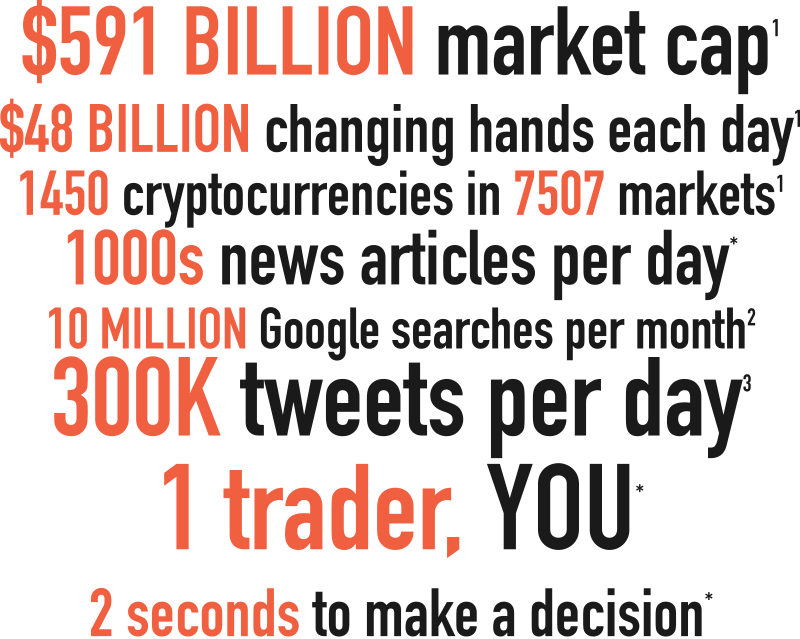
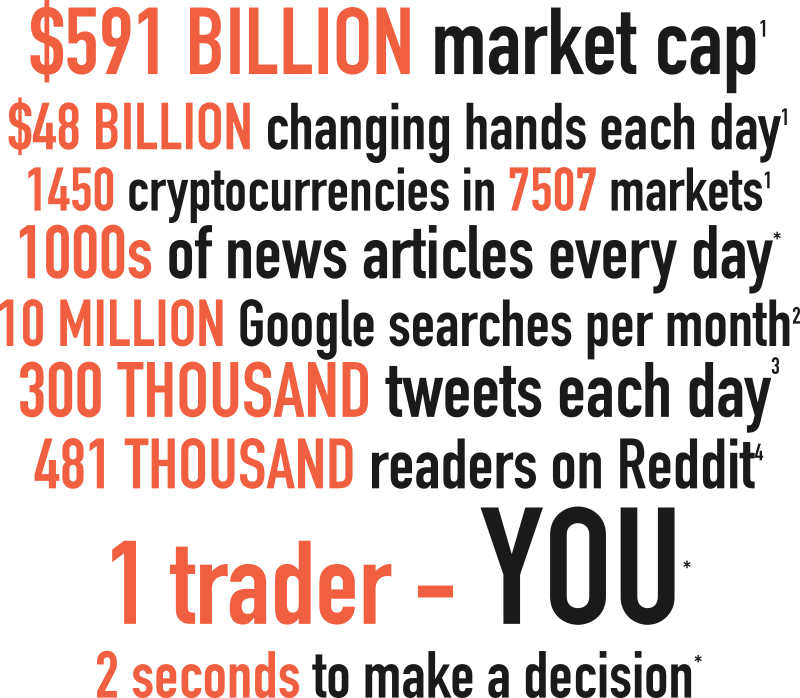
update info graphic

diff --git a/index.html b/index.html
@@ -123,7 +123,7 @@
                     <div class="col-lg-6 col-md-6 mx-auto text-center">
                         <img class="img-fluid" src="img/cryptocurrency-market.png" alt="cryptocurrency market at a glance">
                         <br /><br />
-                        <p class="mb-4"><small>Data estimated on 16/01/2018: (1) coinmarketcap.com<br />(2) Google keyword planner (3) cointrendz.com (*) own estimate
+                        <p class="mb-4"><small>Data estimated on 16/01/2018: (1) coinmarketcap.com (2) Google keyword planner<br />(3) cointrendz.com (4) /r/CryptoCurrency sub-reddit (*) own estimate
                         </small></p>
                     </div>
                 </div>
